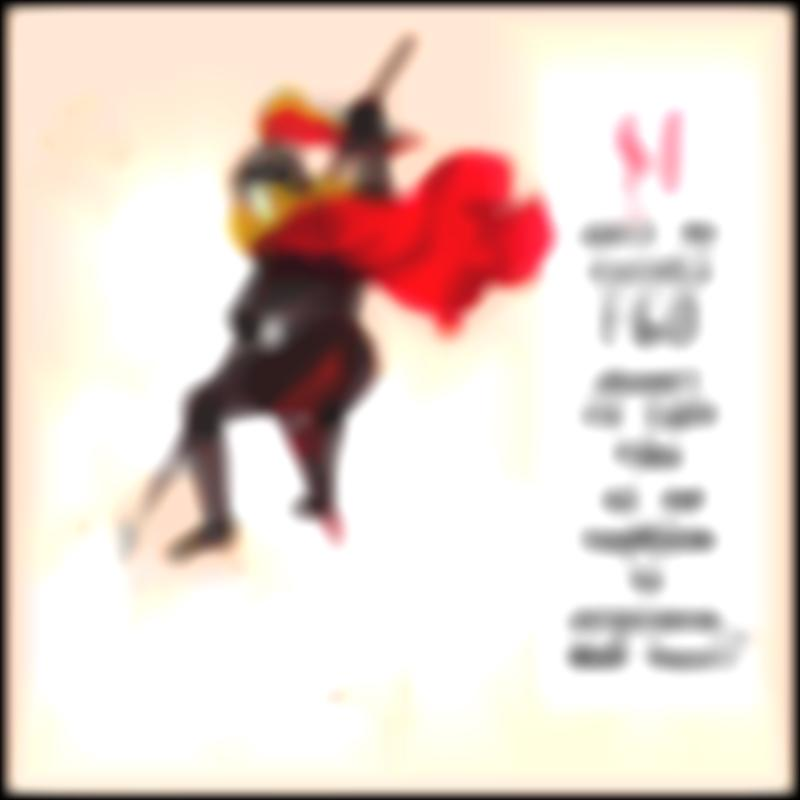
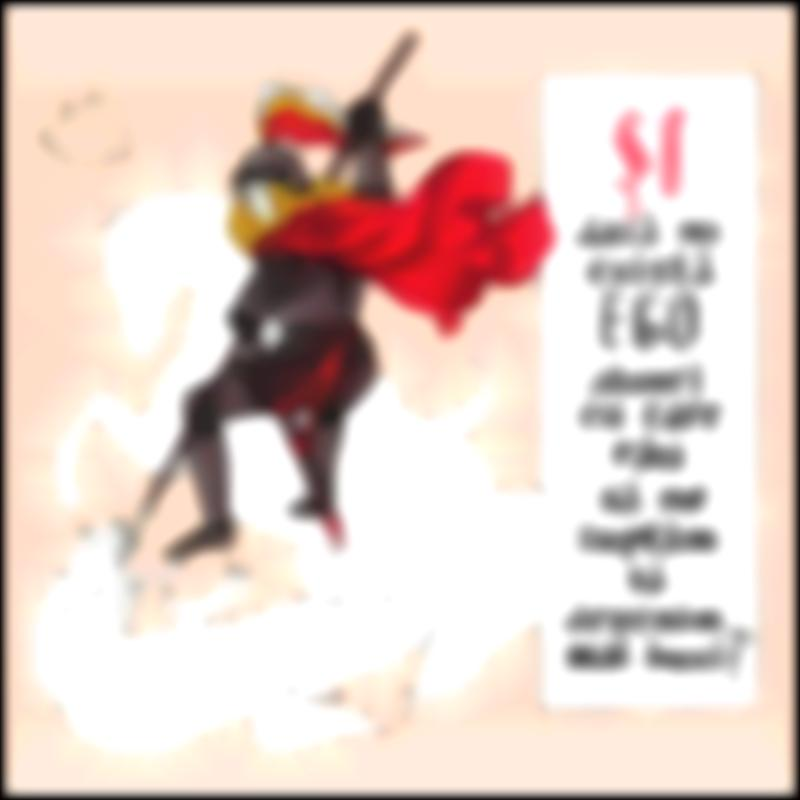
Added support for multidimensional filters

diff --git a/lib/apply_filter.go b/lib/apply_filter.go
@@ -12,6 +12,8 @@ type Filter struct {
 
 func Apply_filter(img image.Image, start image.Point, end image.Point, f Filter, strength int) {
 
+    aux_img := image.Image(image.NewRGBA(image.Rect(img.Bounds().Min.X, img.Bounds().Min.Y, img.Bounds().Max.X, img.Bounds().Max.X)))
+
     for i := 0; i < strength; i++ {
         n := 10
         done := make(chan bool, n)
@@ -26,20 +28,21 @@ func Apply_filter(img image.Image, start image.Point, end image.Point, f Filter,
                         sum_r := float64(0)
                         sum_g := float64(0)
                         sum_b := float64(0)
+                        sum_a := float64(0)
 
-                        for i := -1; i <= 1; i++ {
-                            for j := -1; j <= 1; j++ {
+                        for i := - len(f.Mat) / 2; i <= len(f.Mat) / 2; i++ {
+                            for j := - len(f.Mat[i + len(f.Mat) / 2]) / 2; j <= len(f.Mat[i + len(f.Mat) / 2]) / 2; j++ {
                                 // values are returned as uint16
-                                r, g, b, _ := img.At(x + i, y + j).RGBA()
+                                r, g, b, a := img.At(x + i, y + j).RGBA()
 
-                                sum_r += float64(r) * f.Mat[i + 1][j + 1]
-                                sum_g += float64(g) * f.Mat[i + 1][j + 1]
-                                sum_b += float64(b) * f.Mat[i + 1][j + 1]
+                                sum_r += float64(r) * f.Mat[i + len(f.Mat) / 2][j + len(f.Mat[i + len(f.Mat) / 2]) / 2]
+                                sum_g += float64(g) * f.Mat[i + len(f.Mat) / 2][j + len(f.Mat[i + len(f.Mat) / 2]) / 2]
+                                sum_b += float64(b) * f.Mat[i + len(f.Mat) / 2][j + len(f.Mat[i + len(f.Mat) / 2]) / 2]
+                                sum_a += float64(a) * f.Mat[i + len(f.Mat) / 2][j + len(f.Mat[i + len(f.Mat) / 2]) / 2]
                             }
                         }
 
-                        _, _, _, alpha := img.At(x, y).RGBA();
-                        img.(draw.Image).Set(x, y, color.RGBA{uint8(uint64(sum_r) >> 8), uint8(uint64(sum_g) >> 8), uint8(uint64(sum_b) >> 8), uint8(alpha >> 8)})
+                        aux_img.(draw.Image).Set(x, y, color.RGBA{uint8(uint64(sum_r) >> 8), uint8(uint64(sum_g) >> 8), uint8(uint64(sum_b) >> 8), uint8(uint64(sum_a) >> 8)})
                     }
                 }
 
@@ -49,6 +52,9 @@ func Apply_filter(img image.Image, start image.Point, end image.Point, f Filter,
 
         for i := 0; i < n; i++ {
             <-done
+            if i == n - 1 {
+                aux_img, img = img, aux_img
+            }
         }
     }
 }

diff --git a/TODO.md b/TODO.md
@@ -10,6 +10,7 @@
 # Implementing
 - [ ] Extend rescaling to bicubic interpolation
 - [x] Extend filter appliance to support strength parameter
+- [ ] Add border conditions to filter appliance
 
 # Refactoring
 - [x] Move each group functions into a package and folder on its one
